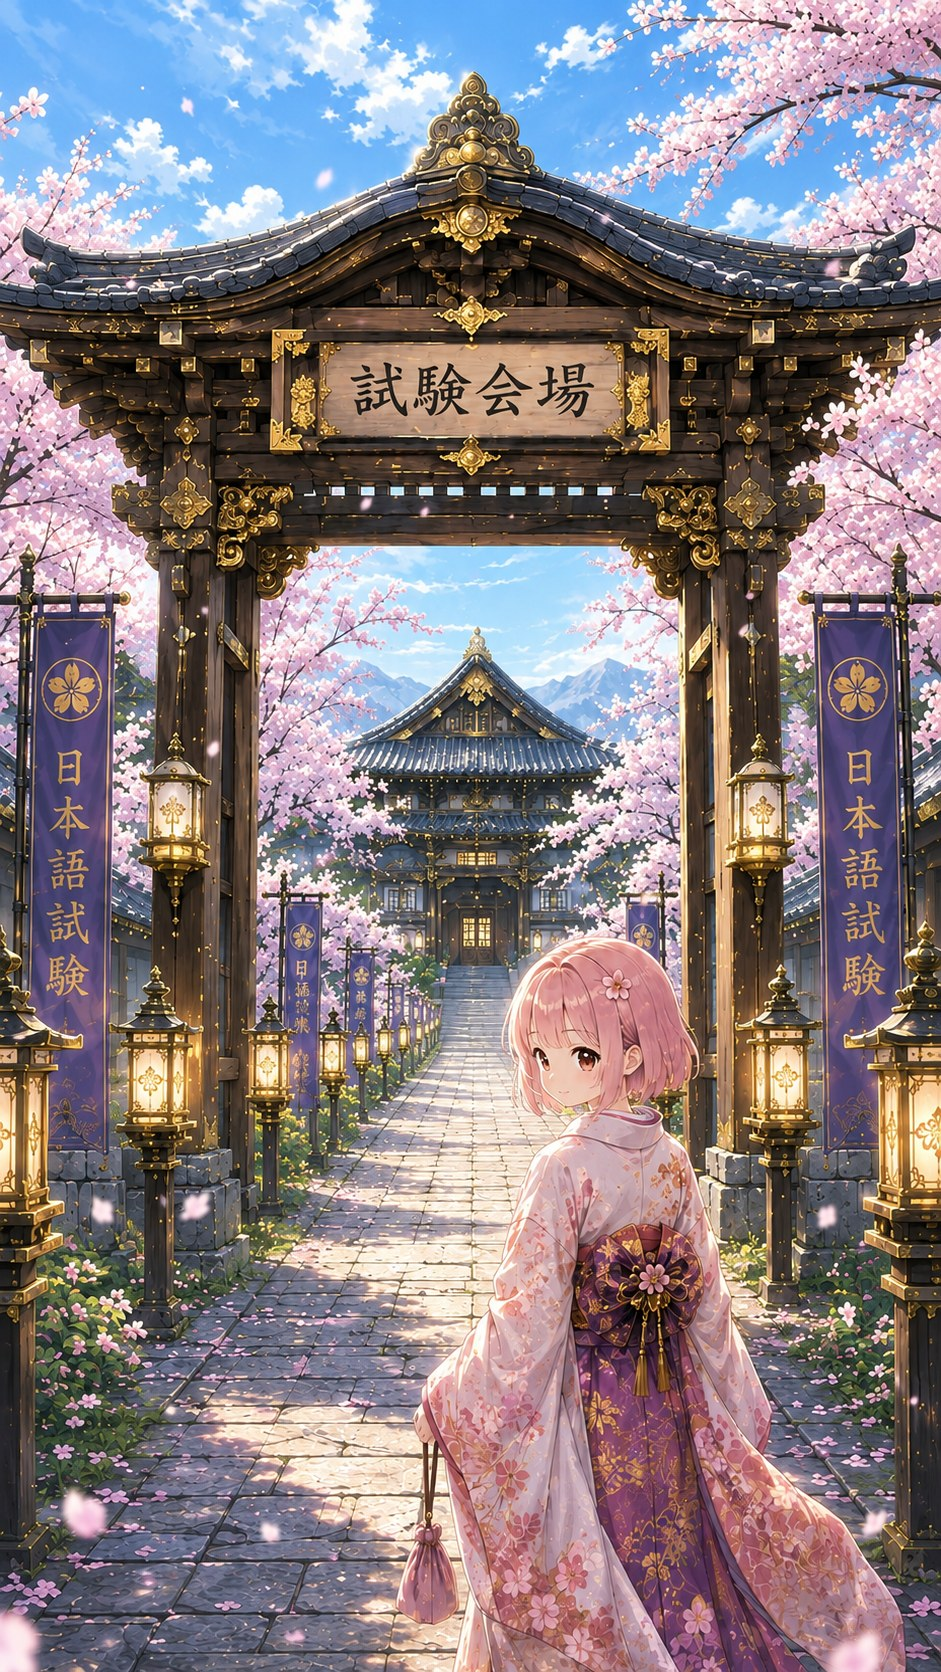
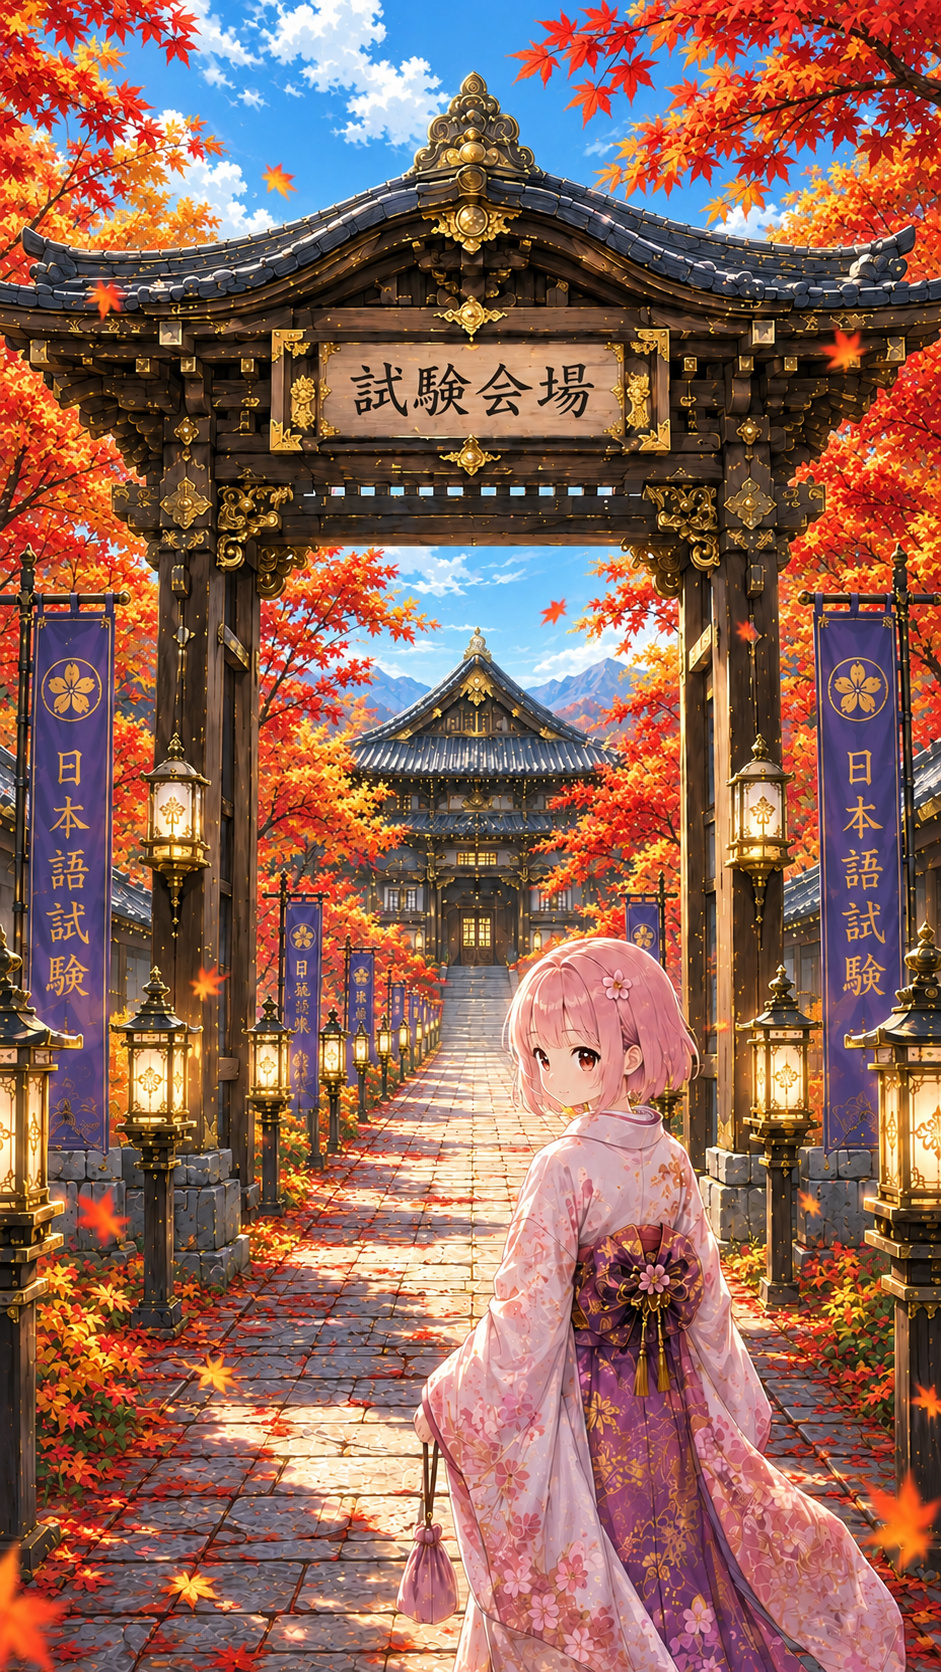
feat: add autumn day and night artwork with transparent tree overlays

diff --git a/src/screens/KotobaTownScreen.tsx b/src/screens/KotobaTownScreen.tsx
@@ -241,8 +241,8 @@ const DIR8: { d: Dir; ux: number; uy: number }[] = [
 ];
 const MAP_DAY = require('../../assets/kotoba/map/day.jpg');
 const MAP_NIGHT = require('../../assets/kotoba/map/night.jpg');
-const MAP_TREE_DAY = require('../../assets/kotoba/map/tree.png'); // 昼: 中央の木だけの透過レイヤー(最前面=人が裏に隠れる)
-const MAP_TREE_NIGHT = require('../../assets/kotoba/map/tree_night.png'); // 夜: 同じ形で夜マップの木の色に合わせた透過レイヤー
+const MAP_TREE_DAY = require('../../assets/kotoba/map/autumn_tree_day.png'); // 昼: 中央の木だけの透過レイヤー(最前面=人が裏に隠れる)
+const MAP_TREE_NIGHT = require('../../assets/kotoba/map/autumn_tree_night.png'); // 夜: 同じ形で夜マップの木の色に合わせた透過レイヤー
 // 家の前面レイヤー(木と同じ最前面=屋根+壁の下を歩く=入口に入ると家の前に隠れる「建物に入る」演出)。書斎/書庫×昼夜。
 // 家の躯体は当たり判定で塞がっているため、屋根だけだと下に入れない→屋根+壁の家シルエットを最前面にして入口で隠す。
 const ROOFS = [
@@ -269,7 +269,13 @@ const WARP_ZONES: { x: number; y: number; w: number; h: number; t: WarpTarget }[
 ];
 
 // 中央の木レイヤー(ユーザー提供のきれいな切り抜き tree.png)を最前面に重ねる。幹の付け根をマップの木に合わせて配置。
-const TREE = { x: 259, y: 165, w: 437, h: 285 };
+const TREE = { x: 259, y: 165, w: 437, h: 285 }; // 夏版と同じNPC初期配置の除外範囲を維持。
+// 原寸1254pxの地図と樹木の元切り抜きは画素一致で位置確認済み。
+// 表示だけ1024pxワールドへ変換。当たり判定・ワープ・NPC配置には使わない。
+const AUTUMN_TREE_FRAME = {
+  day: { x: 404 * 1024 / 1254, y: 247 * 1024 / 1254, w: 390 * 1024 / 1254, h: 267 * 1024 / 1254 },
+  night: { x: 411 * 1024 / 1254, y: 258 * 1024 / 1254, w: 373 * 1024 / 1254, h: 240 * 1024 / 1254 },
+};
 
 // 応援コメント(固定6種・自由入力なし=荒らし不可)。仮想学習者にも送れる(ローカル反応のみ)。
 const CHEERS: { key: string; emoji: string; label: string; reply: string }[] = [
@@ -541,6 +547,7 @@ export default function KotobaTownScreen() {
   sittersRef.current = sitters; // 移動ループ(閉包)から最新の座り手を参照するため
   const isDay = useDaylight() === 'day'; // 開発用 昼/夜固定(devDaylight)を尊重・時刻でも自動更新。町/会話の背景・ダイアログ昼夜に反映
   const MAP_IMG = isDay ? MAP_DAY : MAP_NIGHT;
+  const treeFrame = AUTUMN_TREE_FRAME[isDay ? 'day' : 'night'];
   const MAP_TREE = isDay ? MAP_TREE_DAY : MAP_TREE_NIGHT; // 木の最前面レイヤーも昼夜で切替(夜も木の裏を通れる)
 
   const start = useRef({ x: (START_COL + 0.5) * CELL - SPRITE / 2, y: (START_ROW + 0.5) * CELL - SPRITE * 0.82 }).current;
@@ -840,7 +847,7 @@ export default function KotobaTownScreen() {
       <View style={s.viewport}>
         <Animated.View style={{ position: 'absolute', width: WORLD, height: WORLD, transform: [{ translateX: worldOff.x }, { translateY: worldOff.y }] }}>
           {/* 下: マップ本体 */}
-          <Image source={MAP_IMG} style={{ position: 'absolute', width: WORLD, height: WORLD }} resizeMode="cover" />
+          <Image source={MAP_IMG} style={{ zIndex: 0, position: 'absolute', width: WORLD, height: WORLD }} resizeMode="cover" />
           {/* ベンチ付近の仮想学習者(動かない)。立ちと同じ現行スプライトを SPRITE サイズで表示＋名前/Lv名札。 */}
           {sitters.map((si, i) => {
             const SET = AVATAR_SETS[si.v.avatar] || HERO;
@@ -864,7 +871,7 @@ export default function KotobaTownScreen() {
             <Animated.Image source={SPRITES[dir][poseIdx]} style={{ width: SPRITE, height: SPRITE, transform: [{ translateY: bobY }] }} resizeMode="contain" />
           </Animated.View>
           {/* 上: 木のレイヤー(人より前面=木の裏に回ると隠れる)。day.jpgと同じ位置に重ねる。zIndex=2000でアバター(最大WORLD=1024)より必ず前面。 */}
-          <Image source={MAP_TREE} style={{ position: 'absolute', left: TREE.x, top: TREE.y, width: TREE.w, height: TREE.h, zIndex: 2000 }} resizeMode="stretch" />
+          <Image source={MAP_TREE} style={{ position: 'absolute', left: treeFrame.x, top: treeFrame.y, width: treeFrame.w, height: treeFrame.h, zIndex: 2000 }} resizeMode="stretch" />
           {/* 上: 家の屋根レイヤー(人より前面=屋根の下を歩くと隠れる)。昼夜で切替。 */}
           {ROOFS.map((rf, i) => (
             <Image key={i} source={isDay ? rf.day : rf.night} style={{ position: 'absolute', left: rf.x, top: isDay ? rf.y : ((rf as { nightY?: number }).nightY ?? rf.y), width: rf.w, height: rf.h, zIndex: 2000 }} resizeMode="stretch" />

diff --git a/src/data/afterStudyArt.ts b/src/data/afterStudyArt.ts
@@ -1,35 +1,27 @@
-// 学習後(ドリル終了)の画面 上部に大きく出す「ご褒美イラスト」。
-//  ・画像は assets/afterstudy/ に置く。RNは動的requireができないため、ファイル追加＝この配列の編集が必要(1画像=1行)。
-//  ・季節での出し分けはオフ(ユーザー指定2026-08-01)。下の ROTATION を学習ごとに1枚ずつ順送り=マンネリ防止(気分転換)。
-//  ・旧・季節絵(spring/summer/autumn/winter.png)はご褒美から除外＝削除済み(ユーザー指定2026-08-01)。
+// 秋の学習後イラスト。昼夜それぞれ5枚を学習回数で順送りする。
+import { daylightAt, type Daylight } from './daylight';
 
-// ご褒美イラスト(桜と柴犬)。1枚を上下2分割して登録=昼の庭/夜の書斎。
-const REWARD_DAY = require('../../assets/afterstudy/reward_day.jpg');   // 昼(庭・滝)
-const REWARD_NIGHT = require('../../assets/afterstudy/reward_night.jpg'); // 夜(書斎・灯り)
-// 夏の絵。2×2の1枚を4分割×2セット=計8枚。
-const SUMMER_GARDEN = require('../../assets/afterstudy/summer_garden.jpg');   // 庭(あじさい・すいか)
-const SUMMER_SEA = require('../../assets/afterstudy/summer_sea.jpg');       // 海辺
-const SUMMER_RIVER = require('../../assets/afterstudy/summer_river.jpg');     // 川遊び(五重塔)
-const SUMMER_FESTIVAL = require('../../assets/afterstudy/summer_festival.jpg'); // 夜祭り(灯り・花火)
-const SUMMER_VERANDA = require('../../assets/afterstudy/summer_veranda.jpg');   // 縁側(海の見える庭)
-const SUMMER_BOATS = require('../../assets/afterstudy/summer_boats.jpg');       // 海辺(ヨット)
-const SUMMER_STREET = require('../../assets/afterstudy/summer_street.jpg');     // 夏の小道
-const SUMMER_FIREWORKS = require('../../assets/afterstudy/summer_fireworks.jpg'); // 夜空の花火
+export const AFTER_STUDY_BY_DAYLIGHT = {
+  day: [
+    require('../../assets/afterstudy/autumn_day_01.jpg'),
+    require('../../assets/afterstudy/autumn_day_02.jpg'),
+    require('../../assets/afterstudy/autumn_day_03.jpg'),
+    require('../../assets/afterstudy/autumn_day_04.jpg'),
+    require('../../assets/afterstudy/autumn_day_05.jpg'),
+  ],
+  night: [
+    require('../../assets/afterstudy/autumn_night_01.jpg'),
+    require('../../assets/afterstudy/autumn_night_02.jpg'),
+    require('../../assets/afterstudy/autumn_night_03.jpg'),
+    require('../../assets/afterstudy/autumn_night_04.jpg'),
+    require('../../assets/afterstudy/autumn_night_05.jpg'),
+  ],
+};
+export const AFTER_STUDY_IMAGES = [...AFTER_STUDY_BY_DAYLIGHT.day, ...AFTER_STUDY_BY_DAYLIGHT.night];
 
-// ご褒美画像のローテーション(10枚)。学習ごとに1枚ずつ順番に回る。並び順=この配列のまま。
-export const AFTER_STUDY_IMAGES = [
-  REWARD_DAY, REWARD_NIGHT,
-  SUMMER_GARDEN, SUMMER_SEA, SUMMER_RIVER, SUMMER_FESTIVAL,
-  SUMMER_VERANDA, SUMMER_BOATS, SUMMER_STREET, SUMMER_FIREWORKS,
-];
-
-/**
- * 学習後に出す1枚を決める。seed=学習回数(afterStudyCount)を渡すと、学習ごとに1枚ずつ
- * 順番に切り替わる=マンネリ防止(気分転換)。同一セッション内は afterStudyCount 固定なので安定。
- * 第2引数(now)は季節出し分けを廃止したため未使用(呼び出し側の互換のため残す)。
- */
-export function pickAfterStudyImage(seed: number, _now?: number) {
-  if (AFTER_STUDY_IMAGES.length === 0) return null;
-  const idx = Math.abs(Math.floor(seed));
-  return AFTER_STUDY_IMAGES[idx % AFTER_STUDY_IMAGES.length];
+/** 同じ学習の中では同じ絵。開発用の昼夜指定も各タブと共通。 */
+export function pickAfterStudyImage(seed: number, now = Date.now(), daylight?: Daylight) {
+  const images = AFTER_STUDY_BY_DAYLIGHT[daylight ?? daylightAt(new Date(now))];
+  const index = Number.isFinite(seed) ? Math.abs(Math.floor(seed)) : 0;
+  return images[index % images.length];
 }

diff --git a/src/data/__tests__/afterStudyArt.test.ts b/src/data/__tests__/afterStudyArt.test.ts
@@ -1,0 +1,27 @@
+import { test } from 'node:test';
+import assert from 'node:assert/strict';
+import { createRequire } from 'node:module';
+
+// Asset-only modules can be tested without React Native; use paths as asset IDs.
+const require = createRequire(import.meta.url);
+require.extensions['.jpg'] = (module, filename) => { module.exports = filename; };
+
+test('autumn rewards rotate all five scenes in the selected daylight, including boundary hours', async () => {
+  const { AFTER_STUDY_IMAGES, AFTER_STUDY_BY_DAYLIGHT, pickAfterStudyImage } = await import('../afterStudyArt');
+  assert.equal(new Set(AFTER_STUDY_IMAGES).size, 10);
+  for (const [hour, period] of [[5, 'night'], [6, 'day'], [17, 'day'], [18, 'night']] as const) {
+    const now = new Date(2026, 9, 28, hour).getTime();
+    const images = Array.from({ length: 5 }, (_, i) => pickAfterStudyImage(i, now));
+    assert.deepEqual(images, AFTER_STUDY_BY_DAYLIGHT[period]);
+    assert.equal(pickAfterStudyImage(5, now), images[0]);
+    assert.equal(pickAfterStudyImage(9, now), images[4]);
+    assert.equal(pickAfterStudyImage(2, now), pickAfterStudyImage(2, now));
+  }
+});
+
+test('development daylight override selects the same period as tab and map backgrounds', async () => {
+  const { AFTER_STUDY_BY_DAYLIGHT, pickAfterStudyImage } = await import('../afterStudyArt');
+  const noon = new Date(2026, 9, 28, 12).getTime();
+  assert.equal(pickAfterStudyImage(0, noon, 'night'), AFTER_STUDY_BY_DAYLIGHT.night[0]);
+  assert.equal(pickAfterStudyImage(0, noon, 'day'), AFTER_STUDY_BY_DAYLIGHT.day[0]);
+});

diff --git a/src/data/tabArt.ts b/src/data/tabArt.ts
@@ -9,7 +9,7 @@ import { useAppState } from '../store/store';
 export type TabKey = 'word' | 'exam' | 'dict';
 export { daylightAt, type Daylight };
 
-// ホーム背景(ユーザー提供 HOME.png)。昼=home_bg.jpg / 夜=home_bg_night.jpg を時刻で切替。
+// 秋版ホーム背景(ユーザー提供 HOME_秋_昼/夜.png)。昼=home_bg.jpg / 夜=home_bg_night.jpg を時刻で切替。
 export const HOME_BG_BY: Record<Daylight, ImageSourcePropType> = {
   day: require('../../assets/tabs/home_bg.jpg'),
   night: require('../../assets/tabs/home_bg_night.jpg'),
@@ -17,7 +17,7 @@ export const HOME_BG_BY: Record<Daylight, ImageSourcePropType> = {
 // 後方互換(昼)。現行の参照が残っていても壊れないように。
 export const HOME_BG: ImageSourcePropType = HOME_BG_BY.day;
 
-// 各タブの全画面背景(昼/夜)。word=単語タブ, exam=試験タブ, dict=辞書タブ。
+// 秋版の各タブ背景(昼/夜)。word=単語タブ, exam=試験タブ, dict=辞書タブ。
 export const TAB_BG: Record<TabKey, Record<Daylight, ImageSourcePropType>> = {
   word: { day: require('../../assets/tabs/word_bg_day.jpg'), night: require('../../assets/tabs/word_bg_night.jpg') },
   exam: { day: require('../../assets/tabs/exam_bg_day.jpg'), night: require('../../assets/tabs/exam_bg_night.jpg') },

diff --git a/src/components/AfterStudyReward.tsx b/src/components/AfterStudyReward.tsx
@@ -18,6 +18,7 @@ import { recordQualifyingDay, isTriggerMet } from '../referral/trigger';
 import { reportQualified, getDeviceRef } from '../referral/referralClient';
 import { composeVoice, pickFlavor, renderVoice } from '../story/voice';
 import { pickAfterStudyImage } from '../data/afterStudyArt';
+import { useDaylight } from '../data/tabArt';
 import { homeStatus } from '../home/homeStatus';
 import RubyText from './RubyText';
 import { useT } from '../i18n';
@@ -97,7 +98,8 @@ export default function AfterStudyReward({ words = [], reviewByRef, reviewList, 
   }, []); // eslint-disable-line react-hooks/exhaustive-deps
 
   // ①イラスト(毎回)=学習ごとに1枚ずつ順送り(afterStudyCount が種)。マンネリ防止(気分転換)。
-  const img = useMemo(() => pickAfterStudyImage(state.settings.afterStudyCount ?? 0, Date.now()), []); // eslint-disable-line react-hooks/exhaustive-deps
+  const daylight = useDaylight();
+  const img = useMemo(() => pickAfterStudyImage(state.settings.afterStudyCount ?? 0, Date.now(), daylight), []); // eslint-disable-line react-hooks/exhaustive-deps
   const dims = img ? Image.resolveAssetSource(img) : null;
   const aspect = dims && dims.width && dims.height ? dims.width / dims.height : 3 / 2;
   const frameW = width - spacing.lg * 2;

diff --git a/assets/afterstudy/README.md b/assets/afterstudy/README.md
@@ -1,20 +1,6 @@
-# 学習後画面の画像置き場（季節連動）
+# 学習後の秋版イラスト
 
-単語ドリル(単語タブ)を1回終えたときに、上部へ**大きく**出すイラストです。
-**今の季節に合う絵**を優先表示します（春→`spring.png`／夏→`summer.png`／秋→`autumn.png`／冬→`winter.png`）。
-
-## いま入っている画像
-- `spring.png` `summer.png` `autumn.png` `winter.png`（桜＋柴犬の四季・各622×622）
-
-## 増やす・差し替える
-1. 画像をこのフォルダに入れる（PNG/JPG・横長〜正方形推奨）。
-2. `src/data/afterStudyArt.ts` の `BY_SEASON` に require を足す:
-   ```ts
-   summer: [SUMMER, require('../../assets/afterstudy/summer2.png')], // 夏に2枚目→夏の中でランダム
-   ```
-   （追記は私（Claude）に頼んでもOK。「afterstudy に○○を入れた」と言ってください）
-
-## メモ
-- 同じ季節に複数入れると、その季節の中でランダムに変わります。
-- 季節に画像が無ければ、全体からランダムにフォールバックします。
-- 画像は**アプリ同梱**（バンドル）。増やしすぎると容量が増えるので、季節あたり数枚まで目安。
+`autumn_day_01.jpg`〜`05.jpg` と `autumn_night_01.jpg`〜`05.jpg` を使用。
+端末時刻の昼（6:00〜17:59）・夜（18:00〜5:59）で各5枚を学習回数に応じて順送り。
+開発用の昼夜指定はタブ・MAPと共通。選択処理は `src/data/afterStudyArt.ts`。
+従来の夏画像・解禁演出の素材は保持し、通常の学習後ローテーションからだけ外している。
